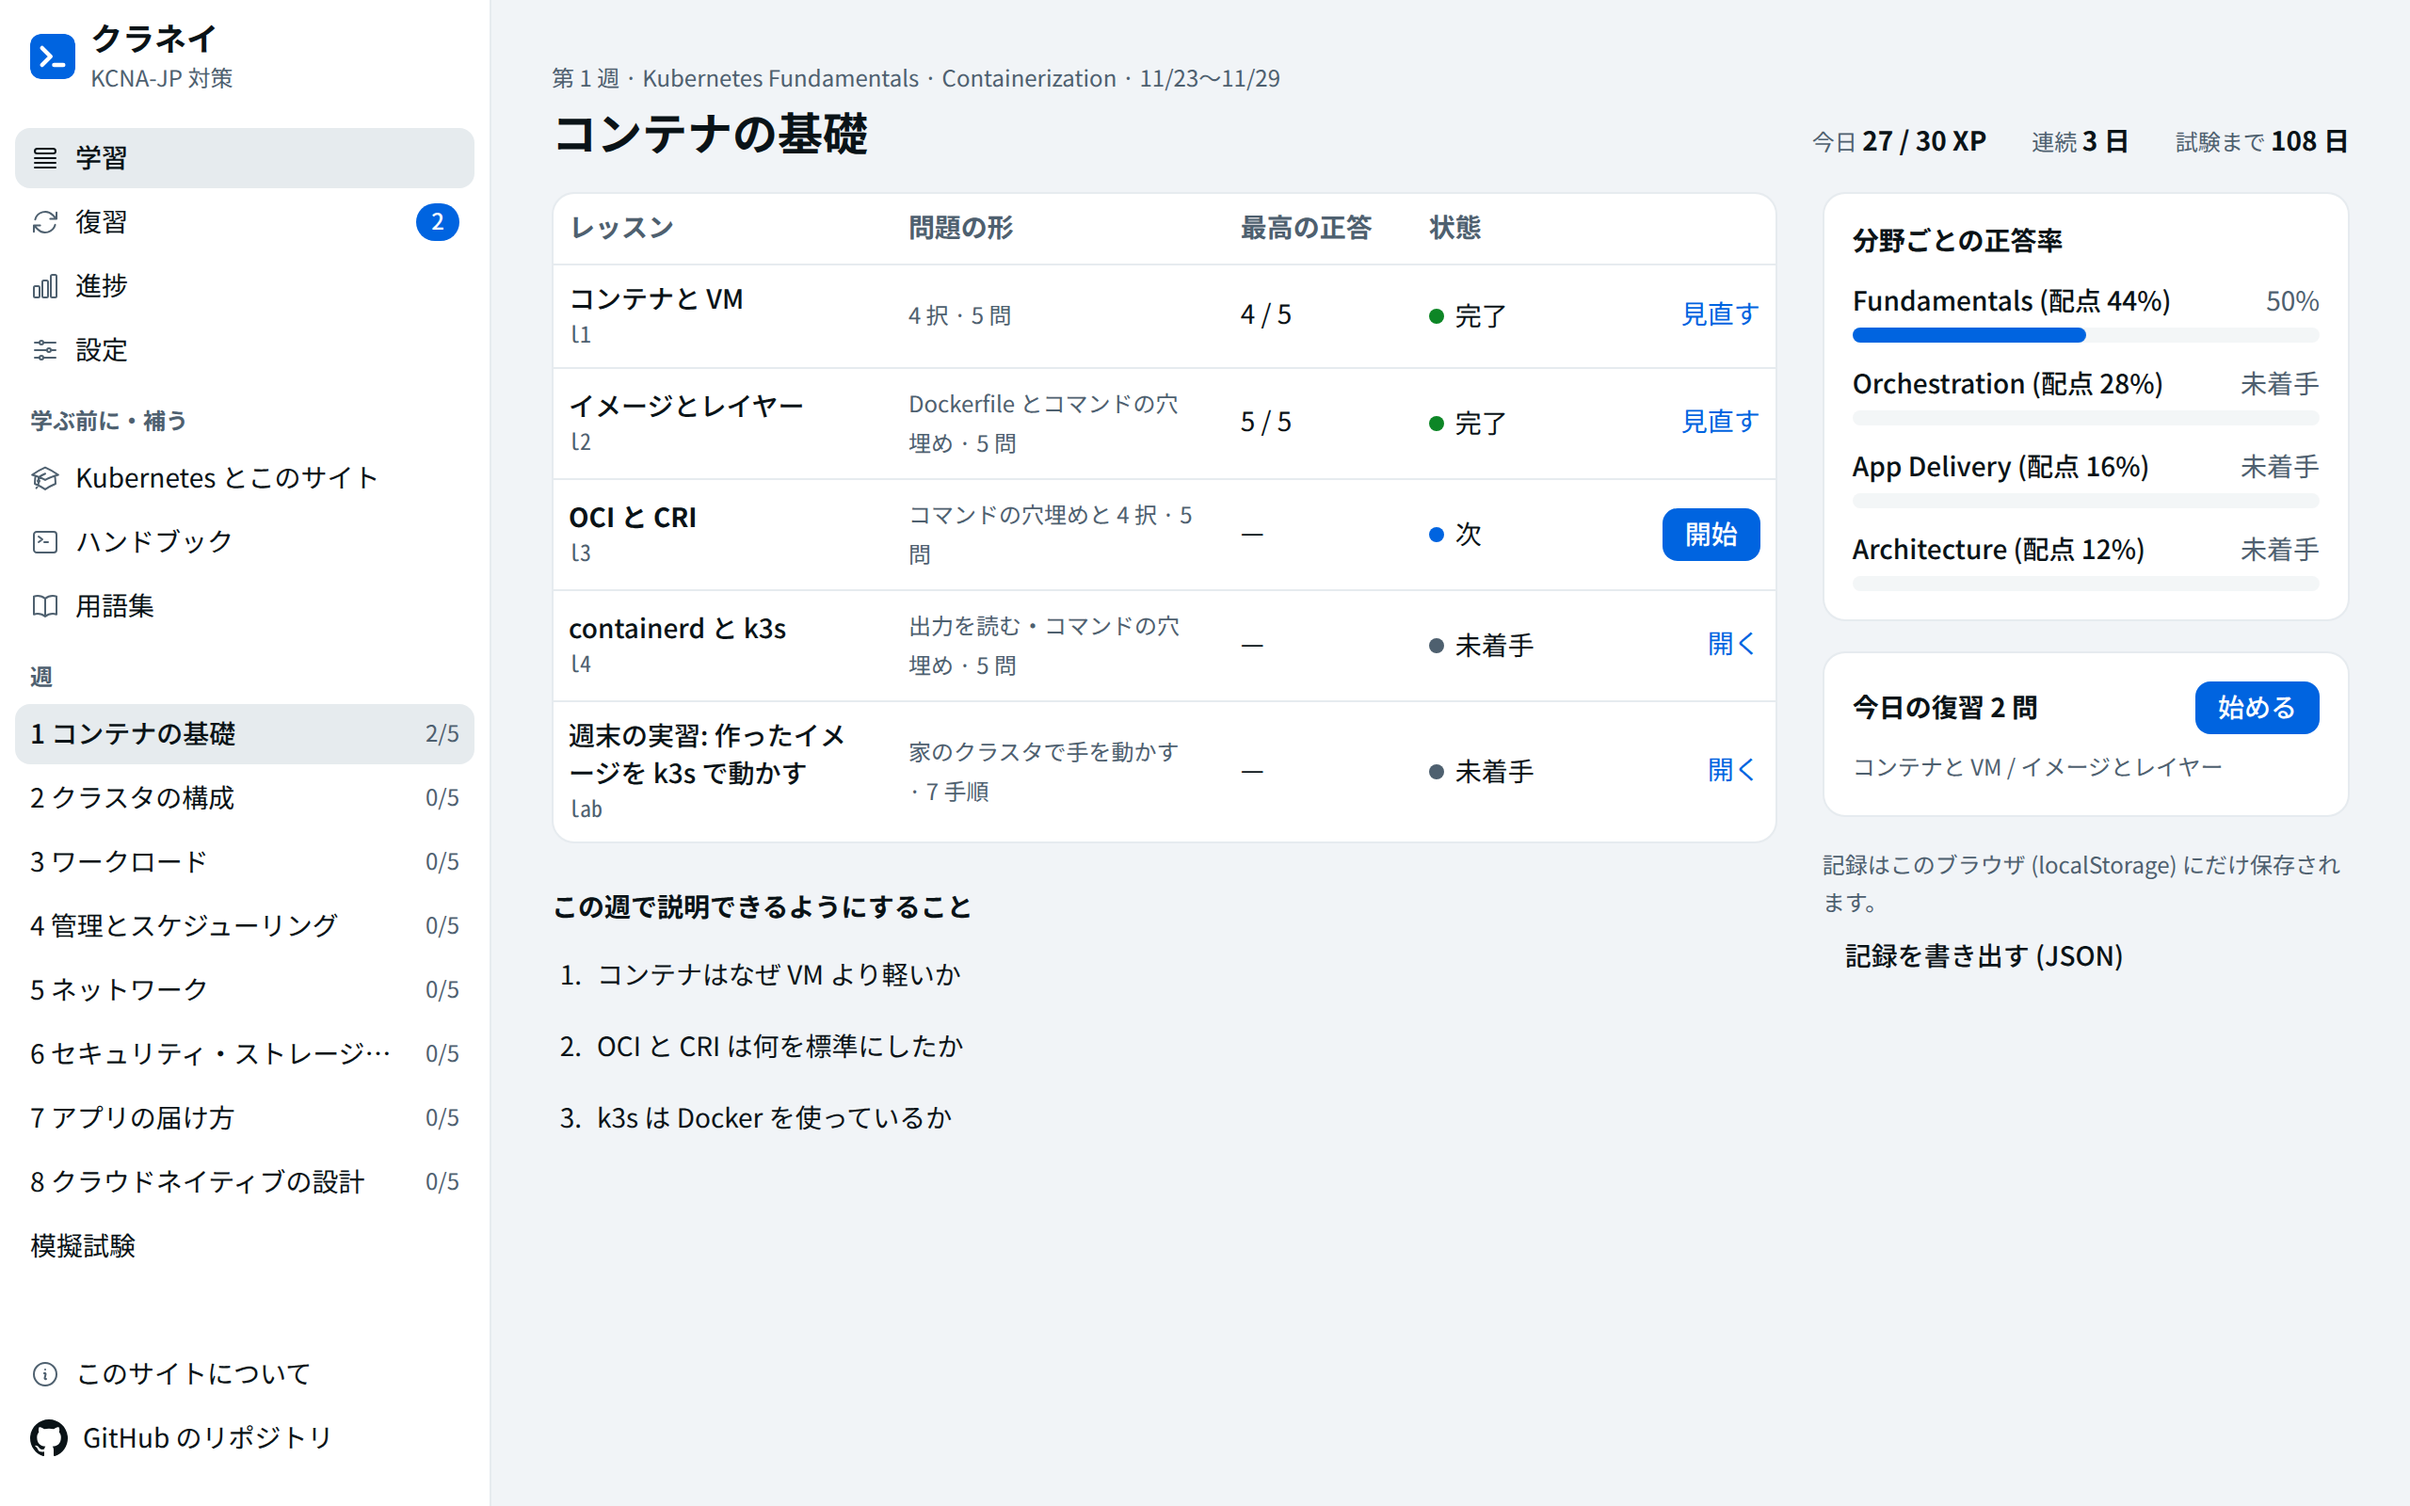
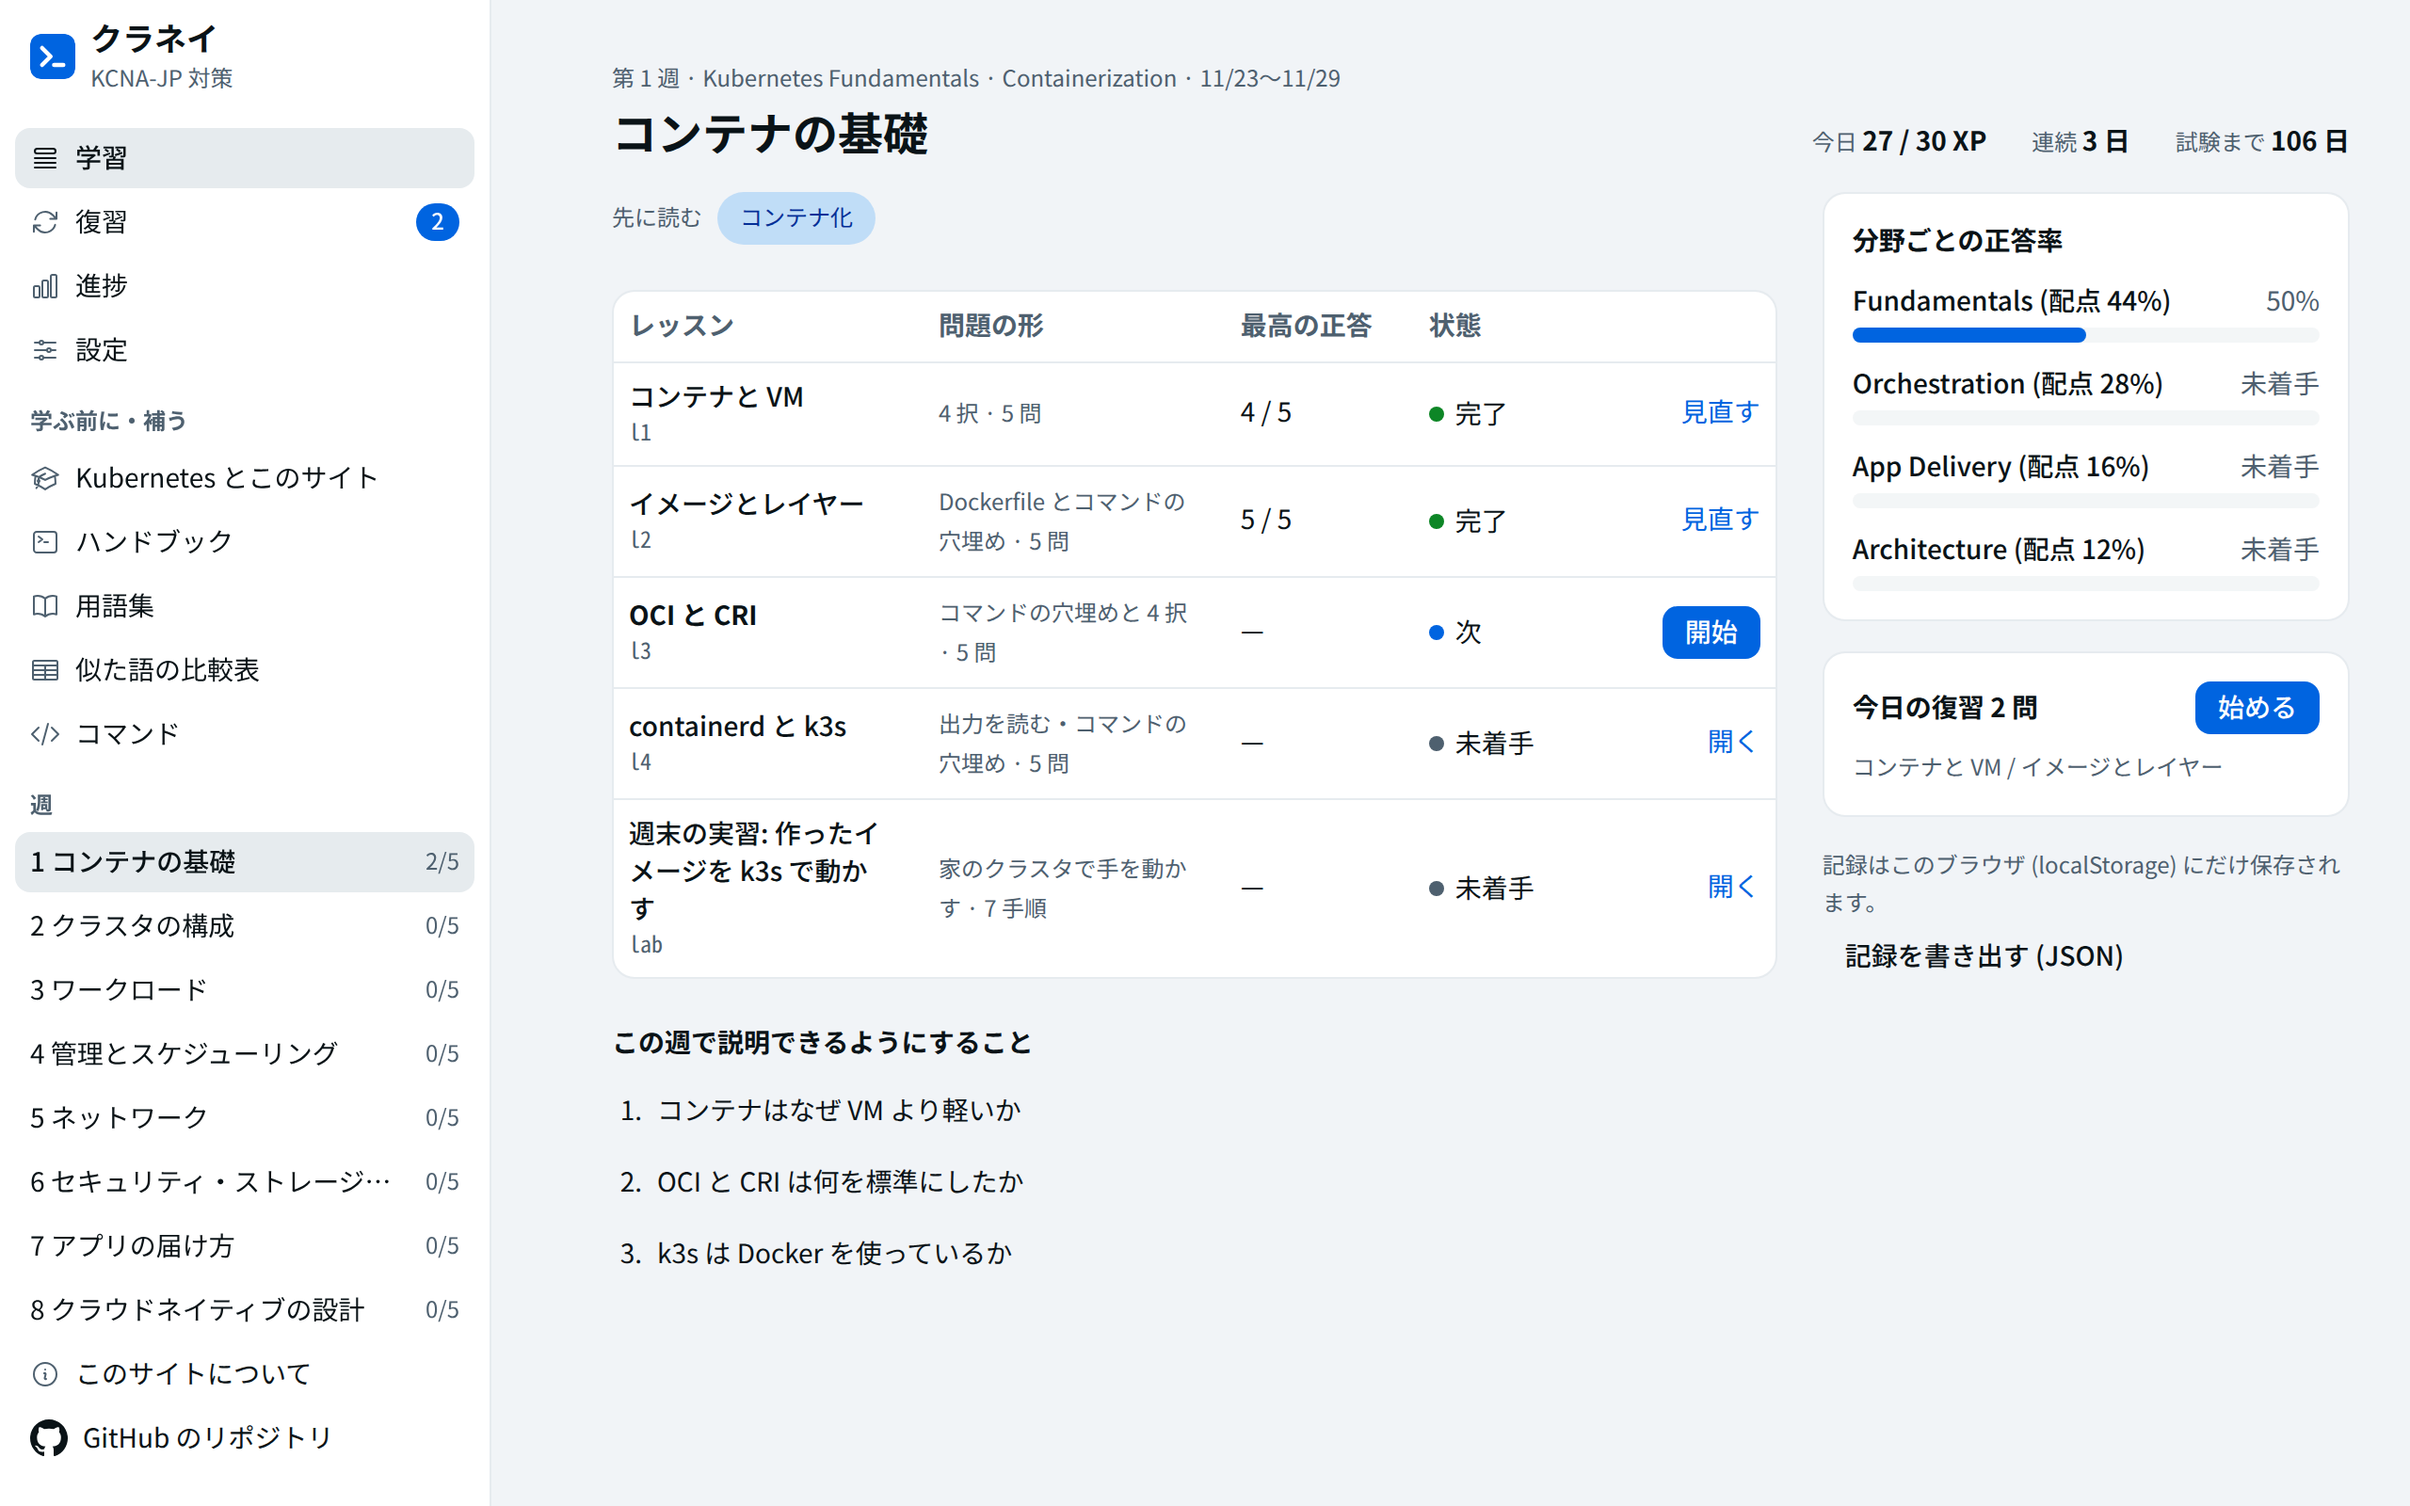
週の一覧に先に読むトピックを出し、学び方を明記する
レッスンは問題から始まり導入の本文を持たないので、初めての人が週の頭に
何を読めばよいかが分からなかった。週ごとに先に読むハンドブックのトピックを
出し、説明のページに学び方を書く。どのトピックからも指されていなかった
w3-l3 と実習をトピックに紐づけ、漏れをテストで見張る。

レッスンの頭に本文は入れない (説明の正本はハンドブック)。鍵も掛けない。

Refs #93

diff --git a/src/content/curriculum.ts b/src/content/curriculum.ts
@@ -14,6 +14,11 @@ export type WeekMeta = {
   start: string;
   /** 説明できるようにすること */
   goals: string[];
+  /**
+   * 先に読むハンドブックのトピック。label はトピックの題名の頭 (短い呼び名)。
+   * ホームはハンドブックのデータを読まないので、ここに id と呼び名だけを持つ (実在・題名との一致・その週のレッスンとの紐づけは tests/preRead.test.ts が見る)
+   */
+  read: { topic: string; label: string }[];
   content?: WeekContent;
 };
 
@@ -25,6 +30,7 @@ const WEEK_LIST: Omit<WeekMeta, 'content'>[] = [
     area: 'Containerization',
     start: '2026-11-23',
     goals: ['コンテナはなぜ VM より軽いか', 'OCI と CRI は何を標準にしたか', 'k3s は Docker を使っているか'],
+    read: [{ topic: 'containerization', label: 'コンテナ化' }],
   },
   {
     week: 2,
@@ -33,6 +39,7 @@ const WEEK_LIST: Omit<WeekMeta, 'content'>[] = [
     area: 'Core Concepts',
     start: '2026-11-30',
     goals: ['Pod を作る命令が動くまでに通る部品の順番', 'etcd が止まると何が起きるか', '望ましい状態とは何か'],
+    read: [{ topic: 'core-concepts', label: 'Kubernetes の中心の考え方' }],
   },
   {
     week: 3,
@@ -41,6 +48,7 @@ const WEEK_LIST: Omit<WeekMeta, 'content'>[] = [
     area: 'Core Concepts',
     start: '2026-12-07',
     goals: ['Deployment と StatefulSet の使い分け', 'DaemonSet が向く用途', 'ラベルが無いと何が困るか'],
+    read: [{ topic: 'core-concepts', label: 'Kubernetes の中心の考え方' }],
   },
   {
     week: 4,
@@ -49,6 +57,7 @@ const WEEK_LIST: Omit<WeekMeta, 'content'>[] = [
     area: 'Administration / Scheduling',
     start: '2026-12-14',
     goals: ['スケジューラは何を見て置き場所を決めるか', 'taint と toleration の向き', 'limits を超えた CPU とメモリの違い'],
+    read: [{ topic: 'administration', label: 'クラスタの管理' }, { topic: 'scheduling', label: 'スケジューリング' }],
   },
   {
     week: 5,
@@ -57,6 +66,7 @@ const WEEK_LIST: Omit<WeekMeta, 'content'>[] = [
     area: 'Networking',
     start: '2026-12-21',
     goals: ['Service が無いと Pod に何が困るか', 'Ingress と LoadBalancer の違い', 'イングレスの移行で何が変わるか'],
+    read: [{ topic: 'networking', label: 'ネットワーク' }],
   },
   {
     week: 6,
@@ -65,6 +75,7 @@ const WEEK_LIST: Omit<WeekMeta, 'content'>[] = [
     area: 'Security / Storage / Troubleshooting',
     start: '2027-01-04',
     goals: ['Role と ClusterRole の違い', 'PV と PVC を分ける理由', 'CrashLoopBackOff のとき最初に見るもの'],
+    read: [{ topic: 'security', label: 'セキュリティ' }, { topic: 'storage', label: 'ストレージ' }, { topic: 'troubleshooting', label: '障害対応' }],
   },
   {
     week: 7,
@@ -73,6 +84,7 @@ const WEEK_LIST: Omit<WeekMeta, 'content'>[] = [
     area: 'Application Delivery / Debugging',
     start: '2027-01-11',
     goals: ['GitOps は何を正本にするか', 'Helm と Kustomize の違い', 'カナリアの利点'],
+    read: [{ topic: 'application-delivery', label: 'アプリを届ける流れ' }, { topic: 'debugging', label: '動かないアプリの原因を探す' }],
   },
   {
     week: 8,
@@ -81,6 +93,7 @@ const WEEK_LIST: Omit<WeekMeta, 'content'>[] = [
     area: 'Observability / Ecosystem',
     start: '2027-01-18',
     goals: ['メトリクスとトレースで分かることの違い', 'SLO を決める理由', 'Graduated になる条件のあらまし'],
+    read: [{ topic: 'observability', label: 'オブザーバビリティ' }, { topic: 'cloud-native-principles', label: 'クラウドネイティブの考え方' }, { topic: 'cloud-native-community', label: 'クラウドネイティブのコミュニティ' }],
   },
 ];
 

diff --git a/tests/preRead.test.ts b/tests/preRead.test.ts
@@ -1,0 +1,41 @@
+import { describe, expect, it } from 'vitest';
+import { WEEKS } from '../src/content/curriculum';
+import { HANDBOOK_TOPICS, isAppendixDomain } from '../src/content/handbook';
+
+const scope = HANDBOOK_TOPICS.filter((t) => !isAppendixDomain(t.domain));
+const byId = new Map(scope.map((t) => [t.id, t]));
+
+describe('先に読むトピック (週 → ハンドブック)', () => {
+  it('どの週にも 1 つ以上あり、試験の範囲のトピックを指し、呼び名は題名の頭', () => {
+    for (const w of WEEKS) {
+      expect(w.read.length, `第 ${w.week} 週`).toBeGreaterThan(0);
+      expect(new Set(w.read.map((r) => r.topic)).size, `第 ${w.week} 週: 重なり`).toBe(w.read.length);
+      for (const r of w.read) {
+        const t = byId.get(r.topic);
+        expect(t, `第 ${w.week} 週: ${r.topic} は試験の範囲のトピックにありません`).toBeDefined();
+        expect(t!.title.startsWith(r.label), `第 ${w.week} 週: 「${r.label}」は「${t!.title}」の頭ではありません`).toBe(true);
+      }
+    }
+  });
+  it('先に読むトピックは、その週のレッスンを練習に持つ', () => {
+    for (const w of WEEKS) {
+      const ids = new Set((w.content?.lessons ?? []).map((l) => l.id));
+      for (const r of w.read) expect(byId.get(r.topic)!.lessons.some((l) => ids.has(l)), `第 ${w.week} 週: ${r.topic}`).toBe(true);
+    }
+  });
+  it('試験の範囲のトピックは、どれかの週の先に読むに入っている', () => {
+    const read = new Set(WEEKS.flatMap((w) => w.read.map((r) => r.topic)));
+    expect(scope.filter((t) => !read.has(t.id)).map((t) => t.id)).toEqual([]);
+  });
+  it('どのレッスン (実習も) も、試験の範囲のどれかのトピックの練習に入っている', () => {
+    const linked = new Set(scope.flatMap((t) => t.lessons));
+    const all = WEEKS.flatMap((w) => (w.content?.lessons ?? []).map((l) => l.id));
+    expect(all.filter((id) => !linked.has(id))).toEqual([]);
+  });
+  it('レッスンは、自分の週の先に読むトピックのどれかに入っている', () => {
+    for (const w of WEEKS) {
+      const linked = new Set(w.read.flatMap((r) => byId.get(r.topic)!.lessons));
+      expect((w.content?.lessons ?? []).map((l) => l.id).filter((id) => !linked.has(id)), `第 ${w.week} 週`).toEqual([]);
+    }
+  });
+});

diff --git a/src/screens/Guide.tsx b/src/screens/Guide.tsx
@@ -326,6 +326,22 @@ function Body() {
           </ol>
         </section>
 
+        <section aria-labelledby="guide-way" className="guide-section">
+          <h2 id="guide-way" className="guide-h2">
+            学び方
+          </h2>
+          <p className="guide-muted">レッスンは問題から始まります。読んでから解くか、解いてから読むかは、どちらでも進められます。</p>
+          <ol className="guide-steps">
+            <li>
+              Kubernetes が初めての人は、週の一覧の「先に読む」から <a href={handbookHref()}>ハンドブック</a> のトピックを読む。触ったことがある人は、読まずに解き始めてよい
+            </li>
+            <li>その週のレッスンを解く。答えたあとに、解説と出典、出てきたコマンドの説明が出る</li>
+            <li>間違えた問題は、答えたあとの「読み直す」からハンドブックと用語集に戻る</li>
+            <li>週末の実習で、手元のクラスタで動かして確かめる</li>
+            <li>間違えた問題は 1・3・7 日後に復習に出る。8 週を終えたら模擬試験で仕上げる</li>
+          </ol>
+        </section>
+
         <section aria-labelledby="guide-outline" className="guide-section guide-section--wide">
           <h2 id="guide-outline" className="guide-h2">
             学習要領と、このサイトで学ぶ場所

diff --git a/src/screens/Home.tsx b/src/screens/Home.tsx
@@ -98,6 +98,20 @@ function Goals({ meta }: { meta: WeekMeta }) {
   );
 }
 
+/** 先に読むハンドブックのトピック。読まなくてもレッスンは開ける (鍵は掛けない) */
+function PreRead({ meta }: { meta: WeekMeta }) {
+  return (
+    <nav className="pre-read" aria-label="先に読むハンドブック">
+      <span className="pre-read__label">先に読む</span>
+      {meta.read.map((r) => (
+        <a key={r.topic} className="gloss-chip" href={handbookHref(r.topic)}>
+          {r.label}
+        </a>
+      ))}
+    </nav>
+  );
+}
+
 /* ---------- スマホ ---------- */
 
 function PhoneHome({ s, progress }: { s: Summary; progress: Progress }) {
@@ -140,6 +154,8 @@ function PhoneHome({ s, progress }: { s: Summary; progress: Progress }) {
             要点を読む
           </Link>
         </div>
+
+        <PreRead meta={meta} />
 
         <div className="rows">
           {lessons.length > 0 ? (
@@ -387,6 +403,7 @@ function DesktopHome({ s, progress }: { s: Summary; progress: Progress }) {
 
         <div className="desk__body">
           <main className="desk__main">
+            <PreRead meta={meta} />
             <Card padding={0}>
               {rows.length > 0 ? (
                 <Table data={rows} columns={columns} idKey="id" />

diff --git a/src/styles.css b/src/styles.css
@@ -103,6 +103,23 @@ body {
   color: var(--color-text-primary);
 }
 
+.pre-read {
+  display: flex;
+  flex-wrap: wrap;
+  align-items: center;
+  gap: 8px;
+  padding: 0 var(--spacing-4) var(--spacing-3);
+}
+
+.desk__main > .pre-read {
+  padding: 0;
+}
+
+.pre-read__label {
+  font-size: 12px;
+  color: var(--color-text-secondary);
+}
+
 .rows {
   background: var(--color-background-surface);
   border-top: 1px solid var(--color-border);

diff --git a/README.md b/README.md
@@ -102,6 +102,7 @@ flowchart TD
 | 決まり | 中身 |
 |---|---|
 | 次のレッスン | まだ終えていない最初のレッスンだけが「開始」。ほかのレッスンもいつでも開ける |
+| 先に読む (`src/content/curriculum.ts` の `read`) | 週の一覧の頭に、その週で先に読むハンドブックのトピックへのリンクを出す。レッスンは問題から始まり導入の本文を持たないので、初めての人の入口にする。読まなくてもレッスンは開ける。ホームはハンドブックのデータを読まないので、週ごとにトピックの id と短い呼び名だけを持ち、`tests/preRead.test.ts` が見張る: トピックが実在して試験の範囲であること・呼び名が題名の頭であること・その週のレッスンを練習に持つこと・試験の範囲の 13 トピックがどれかの週に入ること・どのレッスン (実習も) も自分の週のトピックの練習に入ること。学び方 (初めての人は読んでから、触ったことがある人は解いてから読み直す) は `/guide/` の「学び方」に書く |
 | 採点 (`src/lib/grade.ts`) | 穴埋めは前後の空白を無視し、間の空白の並びを 1 つにして比べる。大文字と小文字は区別する (kubectl も YAML の kind も区別するため)。`answers` のどれかに一致すれば正解 |
 | 選択肢の並び (`src/lib/shuffle.ts`) | 4 択と穴埋めの候補は、レッスンを開くたび・もう一度解くたびに混ぜる。A〜D は画面の並びで振り、採点と記録は選択肢の id で行う。位置に意味がある問題は `fixedOrder: true` で固定する |
 | XP | 1 問正解で 3 XP、実習の完了で 10 XP。レッスンを最後まで解いたときに入る |
